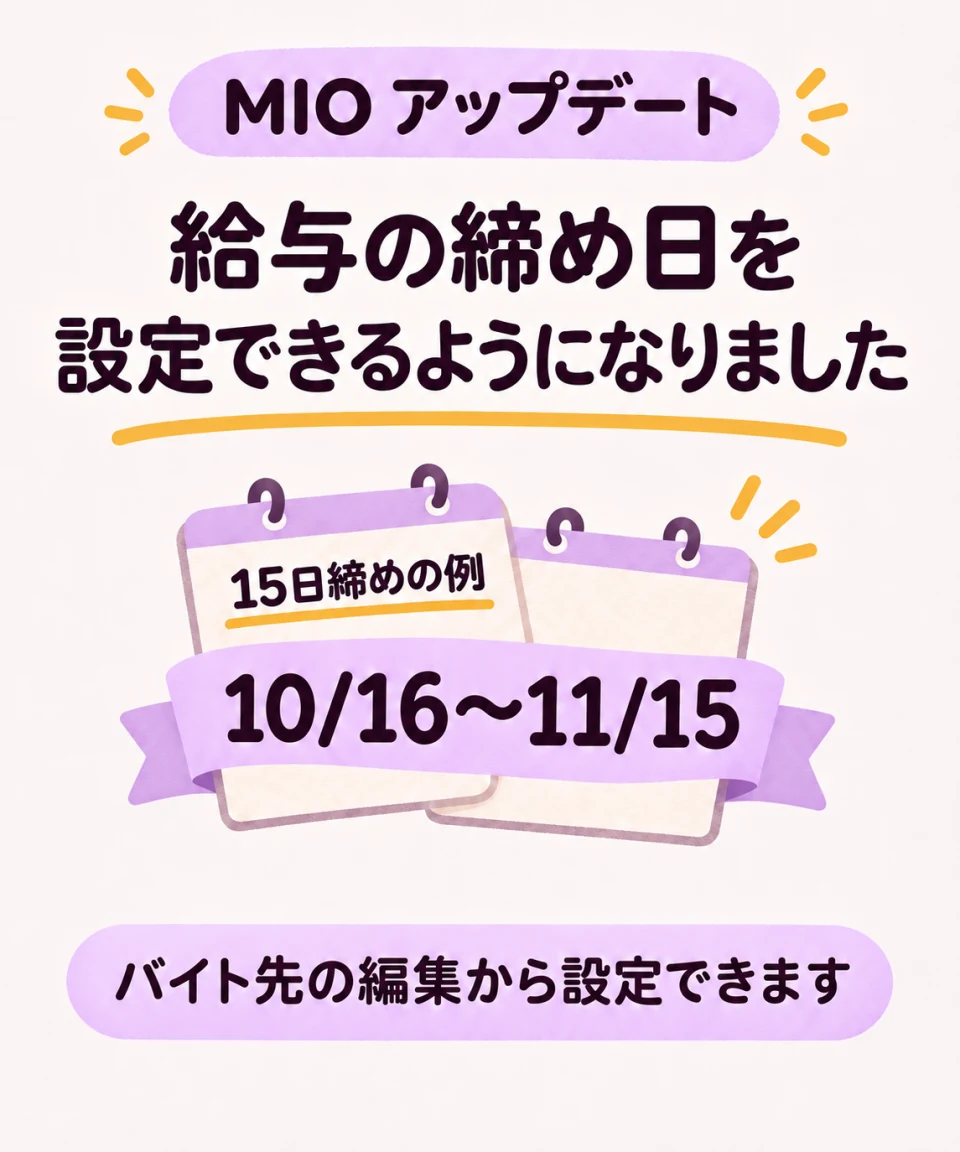
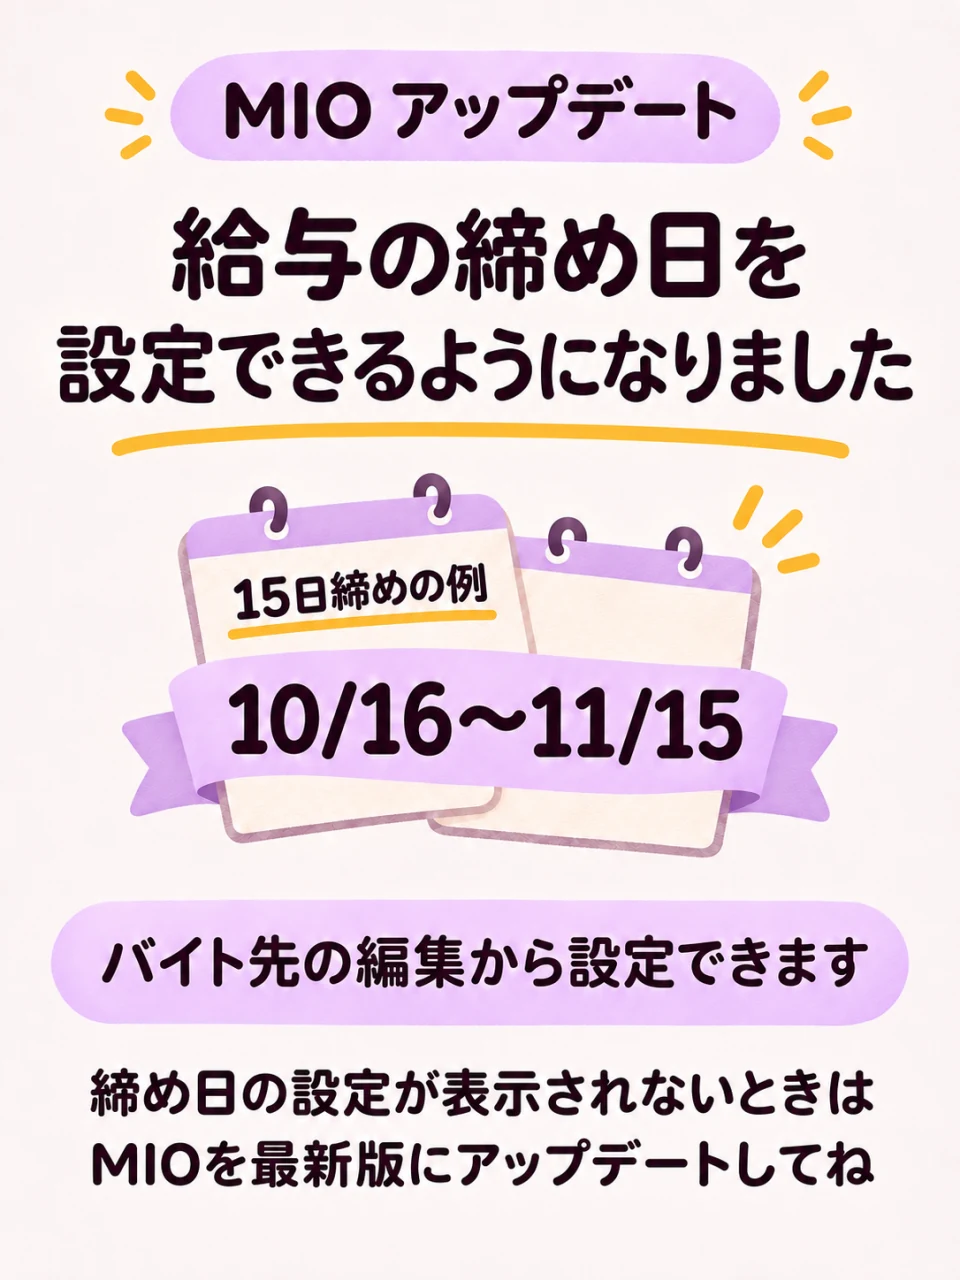
MIOのお知らせに最新版への更新案内を追加

diff --git a/apps/mio/news/parttime-pay-periods.html b/apps/mio/news/parttime-pay-periods.html
@@ -30,10 +30,10 @@
   <body>
     <main>
       <img
-        src="./parttime-pay-periods.webp"
+        src="./parttime-pay-periods.webp?v=2"
         width="960"
-        height="1152"
-        alt="MIOアップデート。給与の締め日を設定できるようになりました。15日締めの例は10月16日から11月15日まで。バイト先の編集から設定できます。"
+        height="1280"
+        alt="MIOアップデート。給与の締め日を設定できるようになりました。15日締めの例は10月16日から11月15日まで。バイト先の編集から設定できます。締め日の設定が表示されないときは、MIOを最新版にアップデートしてね。"
       />
     </main>
   </body>
